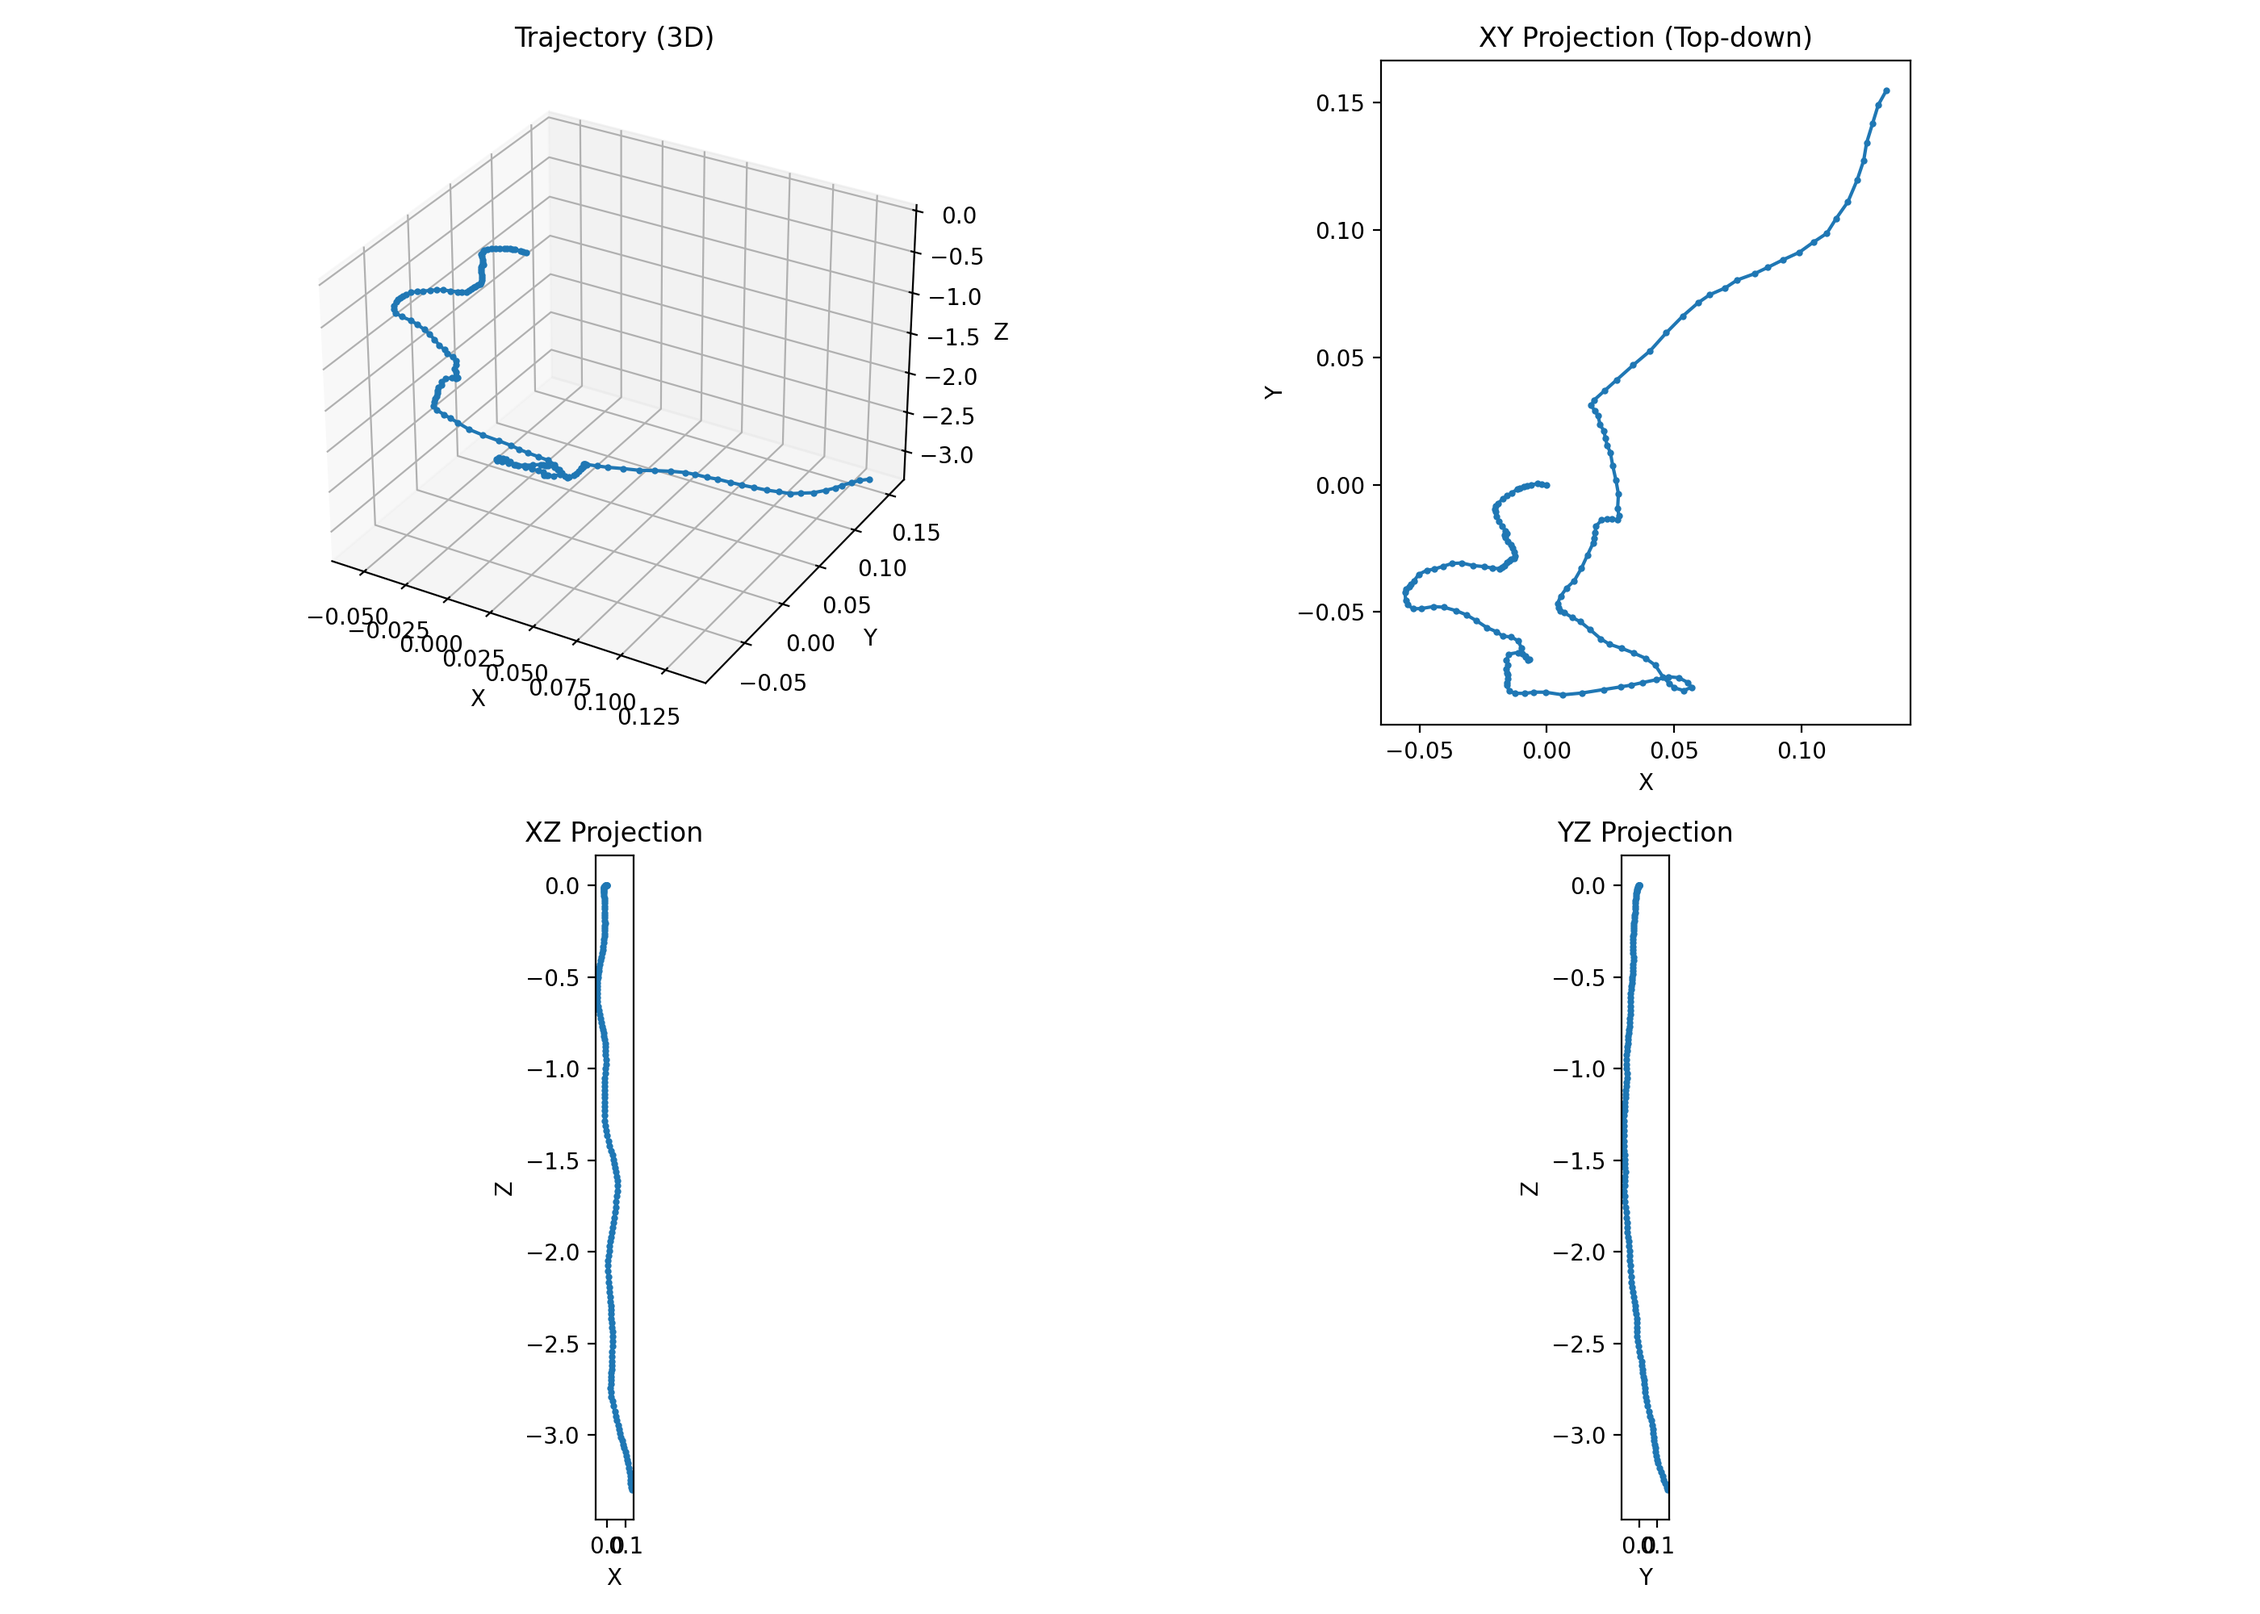
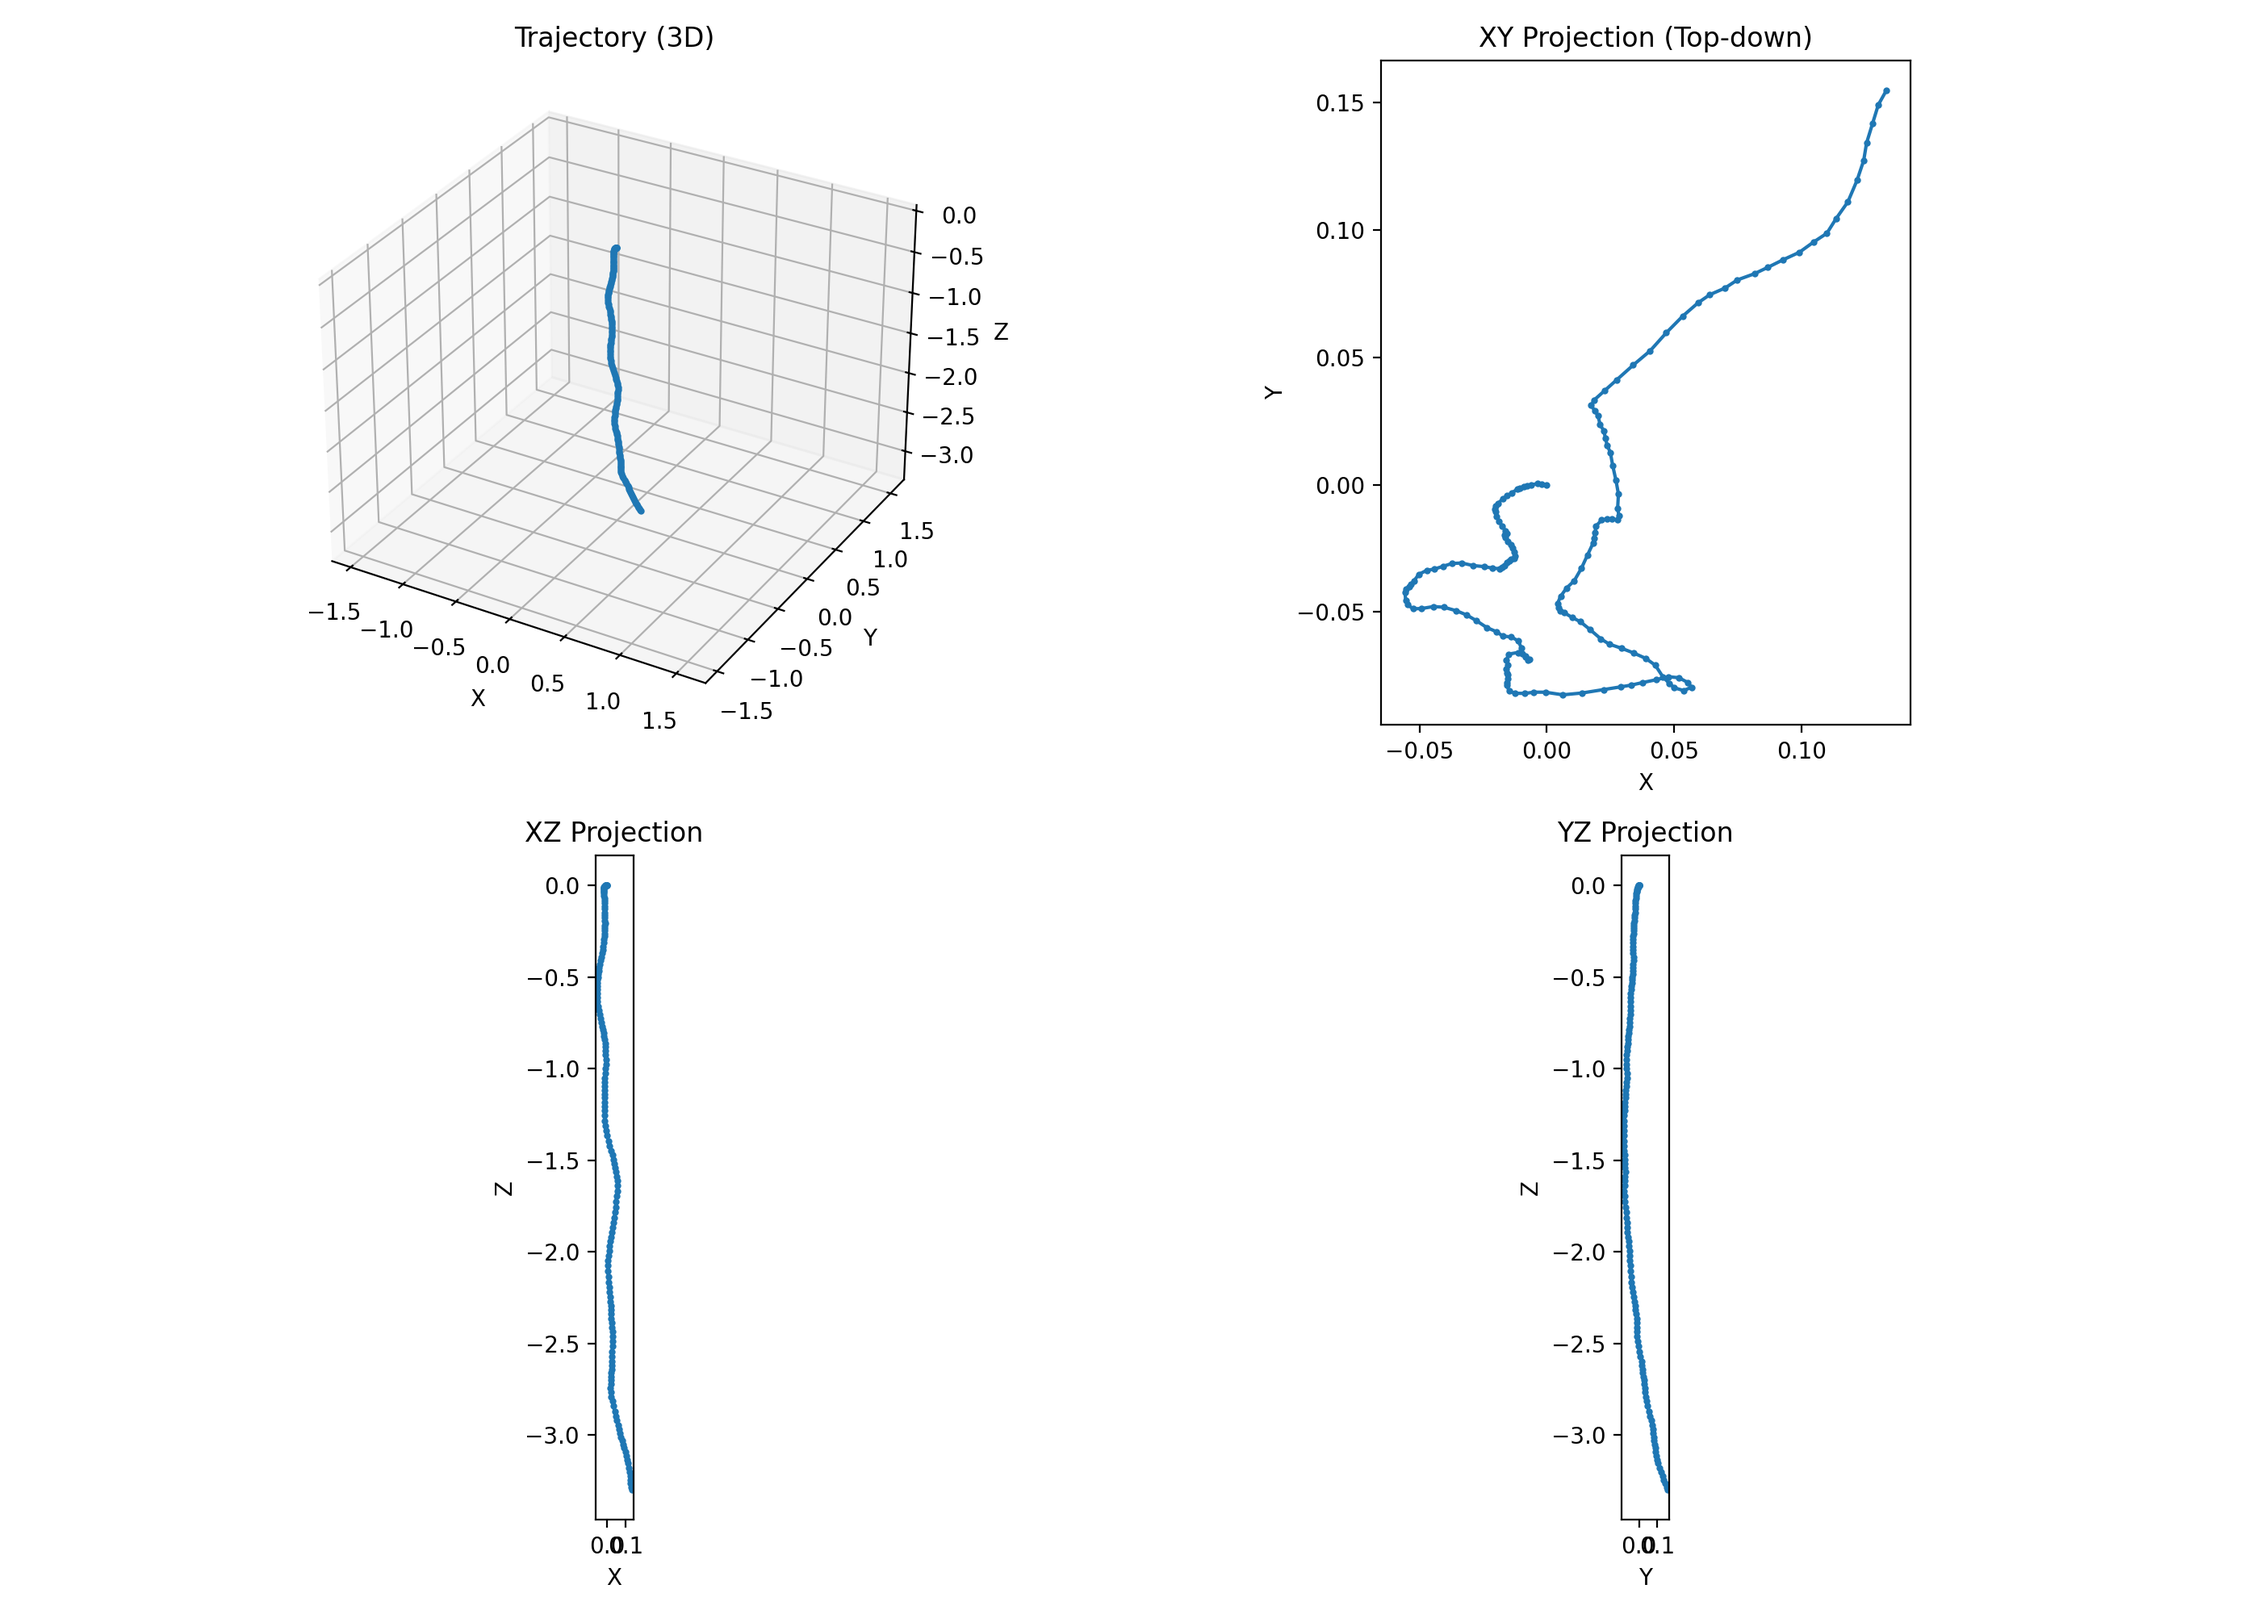
3d plot same scale

Changed region(s): [[0.1554, 0.093, 0.4039, 0.465], [0.3729, 0.341, 0.4039, 0.372]]

diff --git a/notebooks/core/viz.py b/notebooks/core/viz.py
@@ -1,6 +1,26 @@
 import numpy as np
 import matplotlib.pyplot as plt
 
+def set_axes_equal(ax):
+    x_limits = ax.get_xlim3d()
+    y_limits = ax.get_ylim3d()
+    z_limits = ax.get_zlim3d()
+
+    x_range = x_limits[1] - x_limits[0]
+    y_range = y_limits[1] - y_limits[0]
+    z_range = z_limits[1] - z_limits[0]
+
+    max_range = max(x_range, y_range, z_range)
+
+    x_mid = np.mean(x_limits)
+    y_mid = np.mean(y_limits)
+    z_mid = np.mean(z_limits)
+
+    ax.set_xlim3d([x_mid - max_range/2, x_mid + max_range/2])
+    ax.set_ylim3d([y_mid - max_range/2, y_mid + max_range/2])
+    ax.set_zlim3d([z_mid - max_range/2, z_mid + max_range/2])
+
+
 def plot_trajectory(global_poses, title="Camera Trajectory", save_path="../results/trajectory.png"):
     xs, ys, zs = [], [], []
 
@@ -21,30 +41,25 @@ def plot_trajectory(global_poses, title="Camera Trajectory", save_path="../resul
     # -------------------------
     ax1 = fig.add_subplot(2, 2, 1, projection="3d")
     ax1.plot(xs, ys, zs, "-o", markersize=2)
+    set_axes_equal(ax1)
     ax1.set_title(title + " (3D)")
-    ax1.set_xlabel("X"); ax1.set_ylabel("Y"); ax1.set_zlabel("Z")
+    ax1.set_xlabel("X")
+    ax1.set_ylabel("Y")
+    ax1.set_zlabel("Z")
 
-    # -------------------------
-    # 2. XY projection (top-down)
-    # -------------------------
+    # projections remain unchanged...
     ax2 = fig.add_subplot(2, 2, 2)
     ax2.plot(xs, ys, "-o", markersize=2)
     ax2.set_aspect("equal", adjustable="box")
     ax2.set_xlabel("X"); ax2.set_ylabel("Y")
     ax2.set_title("XY Projection (Top-down)")
 
-    # -------------------------
-    # 3. XZ projection
-    # -------------------------
     ax3 = fig.add_subplot(2, 2, 3)
     ax3.plot(xs, zs, "-o", markersize=2)
     ax3.set_aspect("equal", adjustable="box")
     ax3.set_xlabel("X"); ax3.set_ylabel("Z")
     ax3.set_title("XZ Projection")
 
-    # -------------------------
-    # 4. YZ projection
-    # -------------------------
     ax4 = fig.add_subplot(2, 2, 4)
     ax4.plot(ys, zs, "-o", markersize=2)
     ax4.set_aspect("equal", adjustable="box")
